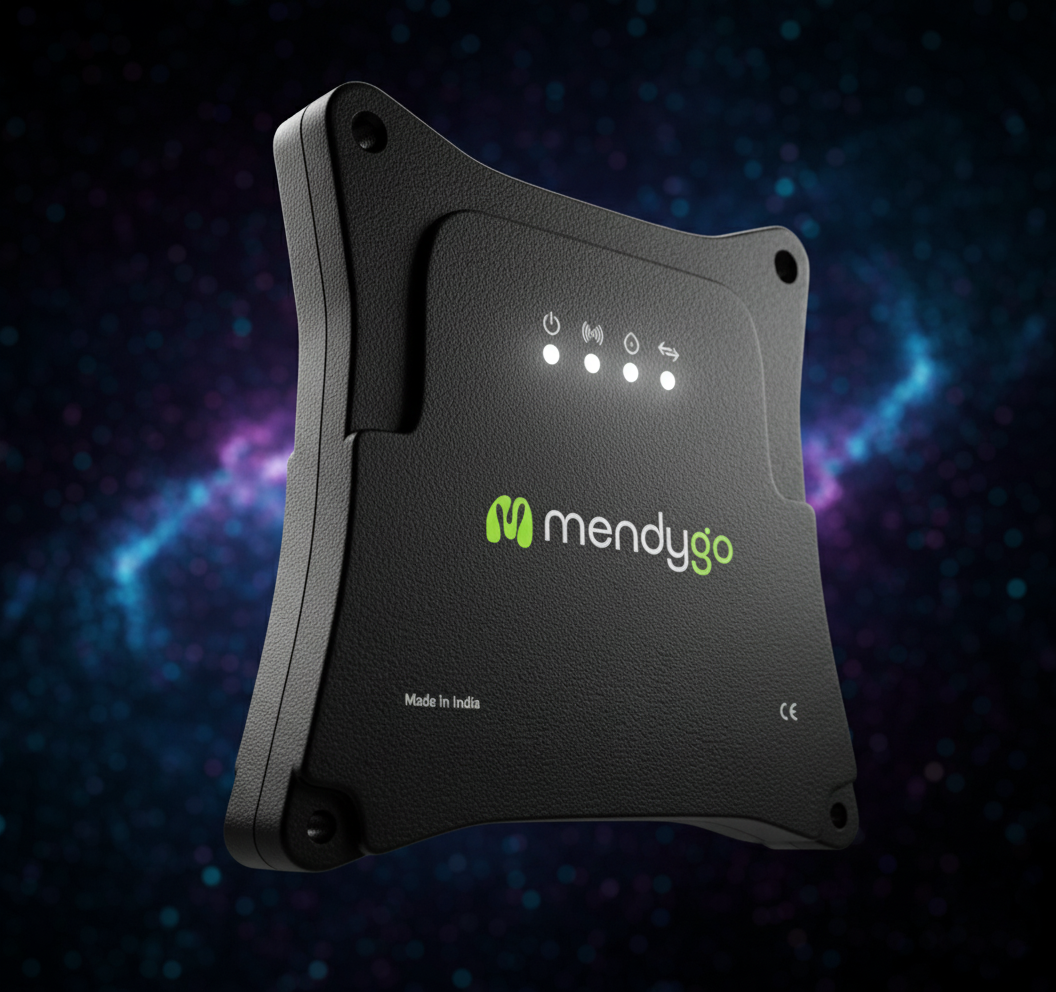
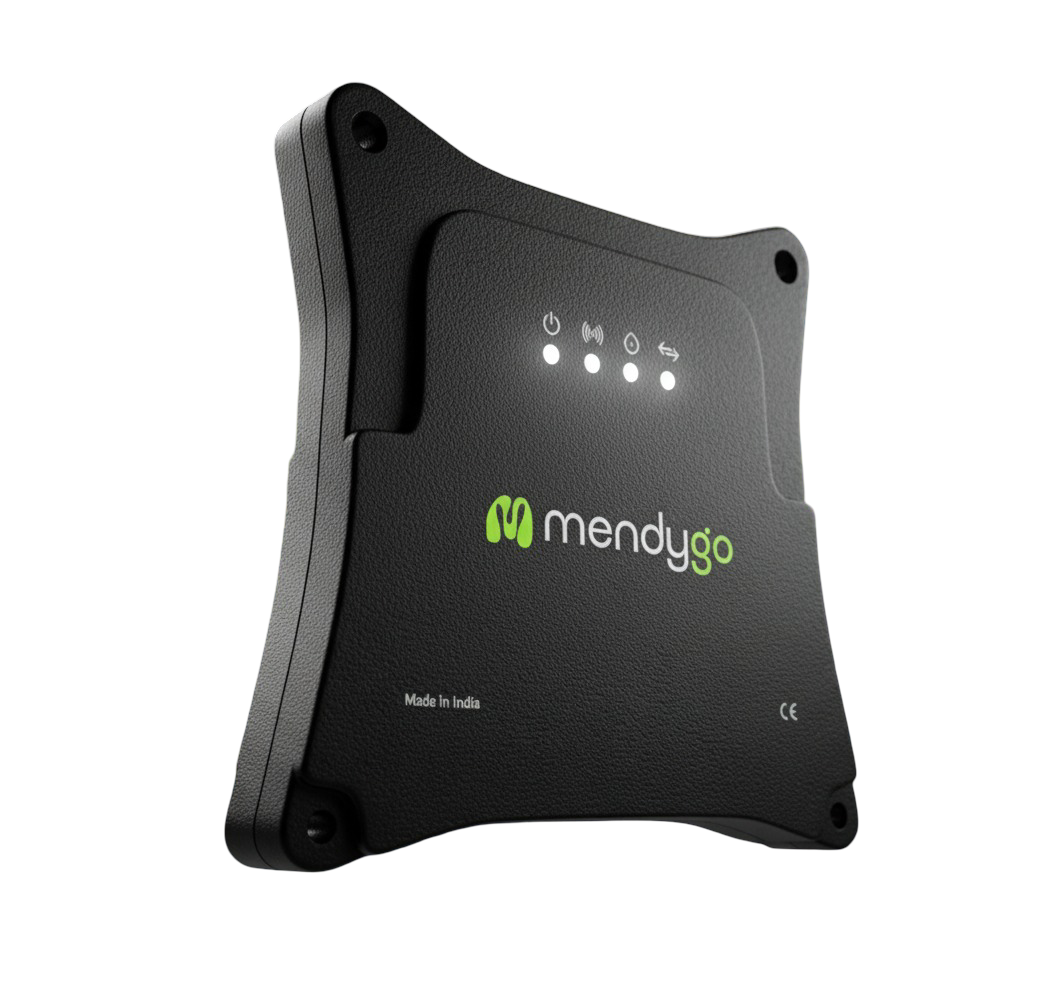
some light effect added with responsiveness

diff --git a/src/components/Home/Productsgrid.tsx b/src/components/Home/Productsgrid.tsx
@@ -26,7 +26,8 @@ const Solutions = [
         description:
             "Streamline operations with AI-driven control, monitoring, and decision-making tools.",
         content: (
-            <div className="relative w-fit lg:h-60 dark:border-2 border-[#5B5B5B] rounded-xl flex items-center justify-center overflow-hidden bg-gray-100 dark:bg-black ">
+            <div className=" w-fit lg:h-60 dark:border-2 border-[#5B5B5B] rounded-xl flex items-center justify-center overflow-hidden bg-gray-100 dark:bg-black ">
+                
                 <Image
                     src={mendyergyLight}
                     className="rounded-xl border-4 border-[#010101] dark:hidden max-h-full w-fit object-contain"
@@ -36,7 +37,7 @@ const Solutions = [
                 />
                 <Image
                     src={mendyergyDark}
-                    className="rounded-2xl border-4 border-black hidden dark:block max-h-full w-fit object-contain"
+                    className="rounded-2xl z-1 border-4 border-black hidden dark:block max-h-full w-fit object-contain"
                     height={1000}
                     width={1000}
                     alt="MendyAI Dark"
@@ -54,6 +55,12 @@ const Solutions = [
             "Real-time tracking, monitoring, and analytics to optimize fleet and asset performance.",
         content: (
             <>
+            {/* <div
+    className="absolute inset-0 rounded-xl z-0 blur-xl scale-110"
+    style={{
+      background: "radial-gradient(circle, rgba(159,251,30,0.3) 0%, rgba(159,251,30,0.1) 50%, transparent 100%)",
+    }}
+  ></div> */}
                 <Image
                     src={AiMaintenanceLight}
                     className="rounded-2xl dark:hidden max-h-full max-w-full object-contain"
@@ -63,7 +70,7 @@ const Solutions = [
                 />
                 <Image
                     src={AiMaintenanceDark}
-                    className="rounded-2xl hidden dark:block max-h-full max-w-full object-contain"
+                    className="rounded-2xl z-1 hidden dark:block max-h-full max-w-full object-contain"
                     height={1000}
                     width={1000}
                     alt="Thermendy Dark"
@@ -79,16 +86,22 @@ const Solutions = [
         description: "Advanced computer vision for real-time detection, tracking, and operational insights.",
         content: (
             <>
+            <div
+    className="absolute inset-0 rounded-xl z-0 blur-xl scale-110"
+    style={{
+      background: "radial-gradient(circle, rgba(159,251,30,0.3) 0%, rgba(159,251,30,0.1) 50%, transparent 100%)",
+    }}
+  ></div>
                 <Image
                     src={mendyVision}
-                    className="rounded-2xl dark:hidden max-h-full max-w-full object-contain"
+                    className="rounded-2xl z-2 dark:hidden max-h-full max-w-full object-contain"
                     height={1000}
                     width={1000}
                     alt="Mendy Vision Light"
                 />
                 <Image
                     src={mendyVisionDark}
-                    className="rounded-2xl hidden dark:block max-h-full max-w-full object-contain"
+                    className="rounded-2xl z-2 hidden dark:block max-h-full max-w-full object-contain"
                     height={1000}
                     width={1000}
                     alt="Mendy Vision Dark"
@@ -106,16 +119,22 @@ const Solutions = [
             "MendyAI turns raw IoT data into smart, real-time insights using adaptive machine learning.",
         content: (
             <>
+            {/* <div
+    className="absolute inset-0 rounded-xl z-0 blur-xl scale-110"
+    style={{
+      background: "radial-gradient(circle, rgba(159,251,30,0.3) 0%, rgba(159,251,30,0.1) 50%, transparent 100%)",
+    }}
+  ></div> */}
                 <Image
                     src={mendyAiHomeLight}
-                    className="rounded-2xl dark:hidden max-h-full max-w-full object-contain"
+                    className="rounded-2xl z-1 dark:hidden max-h-full max-w-full object-contain"
                     height={1000}
                     width={1000}
                     alt="Thermendy Light"
                 />
                 <Image
                     src={mendyAiHomeDark}
-                    className="rounded-2xl hidden dark:block max-h-full max-w-full object-contain"
+                    className="rounded-2xl z-1 hidden dark:block max-h-full max-w-full object-contain"
                     height={1000}
                     width={1000}
                     alt="Thermendy Dark"
@@ -134,16 +153,22 @@ const Solutions = [
         href: "/products/hardware/gateway",
         content: (
             <>
+            <div
+    className="absolute inset-0 rounded-xl z-0 blur-xl scale-110"
+    style={{
+      background: "radial-gradient(circle, rgba(159,251,30,0.3) 0%, rgba(159,251,30,0.1) 50%, transparent 100%)",
+    }}
+  ></div>
                 <Image
                     src={mendySheetsLight}
-                    className="rounded-2xl dark:hidden max-h-full max-w-full object-contain"
+                    className="rounded-2xl z-1 dark:hidden max-h-full max-w-full object-contain"
                     height={1000}
                     width={1000}
                     alt="MendySheets Light"
                 />
                 <Image
                     src={mendySheetsDark}
-                    className="rounded-2xl hidden dark:block max-h-full max-w-full object-contain"
+                    className="rounded-2xl z-1 hidden dark:block max-h-full max-w-full object-contain"
                     height={1000}
                     width={1000}
                     alt="MendySheets Dark"

diff --git a/src/app/products/ai/mendy/page.tsx b/src/app/products/ai/mendy/page.tsx
@@ -49,8 +49,8 @@ const Page = () => {
   };
 
   return (
-    <div className="overflow-hidden min-h-screen relative dark:bg-black">
-      <div className="grid lg:grid-cols-[2fr_3fr] grid-cols-1 h-screen items-center justify-center gap-10 lg:gap-0">
+    <div className=" min-h-screen relative dark:bg-black">
+      <div className="grid lg:grid-cols-[2fr_3fr] grid-cols-1 pb-20 lg:pb-0 min-h-screen items-center justify-center gap-10 lg:gap-0">
         <div className="relative flex h-full justify-center lg:pl-20 lg:pt-0 pt-30 w-full">
           {/* Soft glow behind the phone */}
           <div className="pointer-events-none absolute top-1/2 left-1/2 -translate-x-1/2 -translate-y-1/2 h-72 w-72 rounded-full dark:bg-[#abff02]/50  bg-[#abff02]/30 blur-3xl dark:opacity-40" />
@@ -63,21 +63,21 @@ const Page = () => {
           <Image
             src={aiHomeDark}
             alt="AI workflow assistant dark"
-            className="object-contain z-2 w-80 hidden dark:block"
+            className="object-contain z-2 lg:w-80 w-40 hidden dark:block"
             priority
           />
         </div>
 
-        <div className="flex flex-col h-full justify-center lg:items-start items-center w-full lg:w-2/3 p-10 lg:pr-20 pr-0">
+        <div className="flex flex-col h-full justify-center lg:items-start items-center w-full lg:w-2/3 p-6 lg:pr-20 pr-6">
           <Badge className="backdrop-blur-md bg-[#abff02]/30 border py-1 px-3 border-white/20 text-black dark:text-white mb-4">
             <span className="text-sm font-semibold">Coming Soon</span>
           </Badge>
 
-          <h1 className="text-4xl font-semibold tracking-tight">
+          <h1 className="lg:text-4xl text-3xl font-semibold lg:text-left text-center tracking-tight">
             A new way for industry to manage workflows with AI
           </h1>
 
-          <p className="mt-3 text-neutral-700 dark:text-neutral-300">
+          <p className="mt-3 text-neutral-700 lg:text-left text-center dark:text-neutral-300">
             We’re changing how teams collaborate with technology. Sign up for
             early access.
           </p>

diff --git a/src/app/solutions/page.tsx b/src/app/solutions/page.tsx
@@ -208,7 +208,7 @@ export default function Page() {
       <Ecosystem />
     
       {/* Solutions */}
-      <section className="mx-auto max-w-7xl px-4 sm:px-6 lg:px-8">
+      <section className="mx-auto  px-4 sm:px-6 lg:px-40 py-20 bg-[#F9FAFB] ">
         <h1 className='text-3xl sm:text-4xl md:text-5xl lg:text-6xl z-3 text-center font-bold leading-[1.3] tracking-tight bg-gradient-to-b from-gray-950 via-gray-800 to-gray-500 bg-clip-text text-transparent drop-shadow-sm dark:from-gray-200 dark:via-gray-400 dark:to-gray-700 dark:drop-shadow-lg pb-10'>Solutions</h1>
           
         <div className="mt-10 grid grid-cols-1 md:grid-cols-3 gap-12">
@@ -245,7 +245,7 @@ export default function Page() {
       </div> */}
 
       {/* Features */}
-      <section className="mx-auto max-w-7xl px-4 sm:px-6 lg:px-8 py-12 sm:py-16">
+      <section className="mx-auto max-w-7xl px-4 sm:px-6 lg:px-8 py-10 sm:py-16">
         <h1 className='text-3xl sm:text-4xl md:text-5xl lg:text-6xl z-3 text-center font-bold leading-[1.3] tracking-tight bg-gradient-to-b from-gray-950 via-gray-800 to-gray-500 bg-clip-text text-transparent drop-shadow-sm dark:from-gray-200 dark:via-gray-400 dark:to-gray-700 dark:drop-shadow-lg py-10'>Features</h1>
           
         <div className="mt-8 grid grid-cols-1 sm:grid-cols-2 lg:grid-cols-5 gap-x-8 gap-y-12">

diff --git a/src/app/products/hardware/sensors-meters/page.tsx b/src/app/products/hardware/sensors-meters/page.tsx
@@ -25,15 +25,21 @@ const page = () => {
           {systemData.modules.map((module) => (
             <Link key={module.title} href={`/products/hardware/sensors-meters/${module.href}`}>
               <div
-                className="flex flex-col  dark:bg-black rounded-xl border pb-10 shadow-lg border-neutral-200 dark:border-neutral-800  dark:hover:border-neutral-700  transition-all duration-300"
+                className="flex flex-col  dark:bg-black rounded-xl border-2 pb-10 shadow-lg border-neutral-200 dark:border-neutral-800  dark:hover:border-neutral-700  transition-all duration-300"
               >
               {module.image && (
                 <div className="relative h-40  ">
+                  <div
+    className="absolute inset-0 rounded-xl z-0 blur-2xl scale-110"
+    style={{
+      background: "radial-gradient(circle, rgba(159,251,30,0.1) 0%, rgba(159,251,30,0.1) 50%, transparent 100%)",
+    }}
+  ></div>
                   <Image
                     src={module.image}
                     alt={module.title}
                     layout="fill"
-                    className="object-contain border-b rounded-xl object-center pl-10"
+                    className="object-contain border-b-2 rounded-xl object-center pl-10"
                   />
                 </div>
               )}

diff --git a/src/components/products/ControllerHero.tsx b/src/components/products/ControllerHero.tsx
@@ -47,17 +47,24 @@ const HardwareHero = ({ systemData }) => {
           </div>
         </div>
 
-        <div className="flex flex-col items-center text-center -mt-4">
+        <div className="flex flex-col items-center text-center -mt-4 relative">
+          
+          <div
+    className="absolute inset-0 rounded-xl blur-xl scale-110"
+    style={{
+      background: "radial-gradient(circle, rgba(159,251,30,0.3) 0%, rgba(159,251,30,0.1) 50%, transparent 100%)",
+    }}
+  ></div>
           <Image
             src={systemData.heroImage}
             alt={systemData.title}
-            className="rounded-xl dark:hidden border object-cover border-none bg-[#F8F9FA] dark:bg-black  dark:shadow-lg w-full "
+            className="rounded-xl dark:hidden border object-cover border-none  bg-transparent w-full relative z-0"
             priority
           />
           <Image
             src={systemData.DarkheroImage}
             alt={systemData.title}
-            className="rounded-xl hidden dark:block border object-cover border-none bg-[#F8F9FA] dark:bg-black  dark:shadow-lg w-full "
+            className="rounded-xl hidden dark:block border object-cover border-none  bg-transparent w-full relative z-10"
             priority
           />
         </div>

diff --git a/src/data/SensorsMetersData.tsx b/src/data/SensorsMetersData.tsx
@@ -1,10 +1,10 @@
 import { StaticImageData } from "next/image";
 
-import heroSensor from "@/assets/hardware/sensorsAndMeters/meter.jpeg"
+import heroSensor from "@/assets/hardware/sensorsAndMeters/meter.png"
 import heroFuelSensor from "@/assets/hardware/sensorsAndMeters/FuelSensor.png"
 // import DarkheroImage from "@/assets/hardware/sensorsAndMeters/FuelSensorDark.png"
-import temperaturehero from "@/assets/hardware/sensorsAndMeters/temperatureSensor.png"
-import temperatureheroDark from "@/assets/hardware/sensorsAndMeters/temperatureSensorBlack.jpeg.jpg" 
+import temperaturehero from "@/assets/hardware/sensorsAndMeters/temperatureSensorBlack.png"
+import temperatureheroDark from "@/assets/hardware/sensorsAndMeters/temperatureSensorBlack.png" 
 // import vibrationhero from "@/assets/hardware/sensorsAndMeters/VibrationSensor.jpeg"
 import vibrationheroDark from "@/assets/hardware/sensorsAndMeters/Vibration Sensor.png"
 import ecosystemBMS from "@/assets/image2.png"; // Your hardware image for BMS

diff --git a/src/components/products/HardwareHero.tsx b/src/components/products/HardwareHero.tsx
@@ -48,11 +48,17 @@ const [isModalOpen, setIsModalOpen] = useState(false);
           </div>
         </div>
 
-        <div className="flex flex-col items-center text-center -mt-4">
+        <div className="flex relative flex-col items-center text-center -mt-4">
+          <div
+    className="absolute inset-0 rounded-xl blur-xl scale-110"
+    style={{
+      background: "radial-gradient(circle, rgba(159,251,30,0.2) 0%, rgba(159,251,30,0.1) 50%, transparent 100%)",
+    }}
+  ></div>
           <Image
             src={systemData.heroGateway}
             alt={systemData.title}
-            className="rounded-xl border object-cover border-neutral-200 dark:border-neutral-800 shadow-lg w-full "
+            className="rounded-xl z-2 object-cover w-full "
             priority
           />
         </div>

diff --git a/tailwind.config.js b/tailwind.config.js
@@ -7,6 +7,10 @@ module.exports = {
     ],
     theme: {
         extend: {
+            backgroundImage: {
+        // ...existing code...
+        'gradient-radial': 'radial-gradient(var(--tw-gradient-stops))',
+      },
              colors: {
         'mendygo-green': '#A3E635', 
       },
